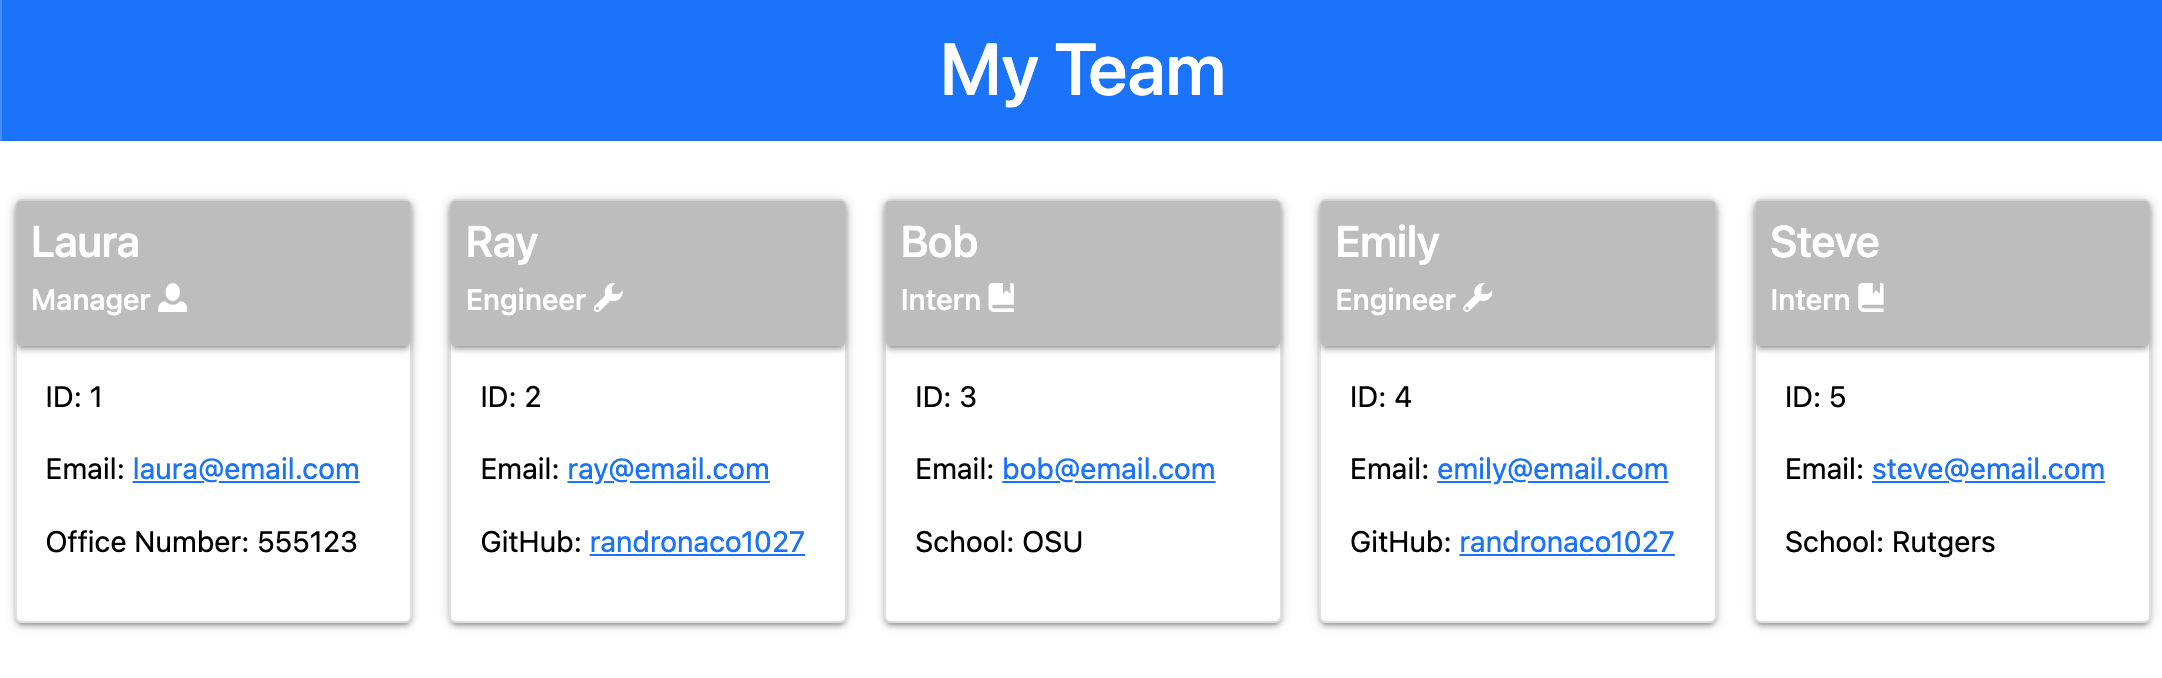
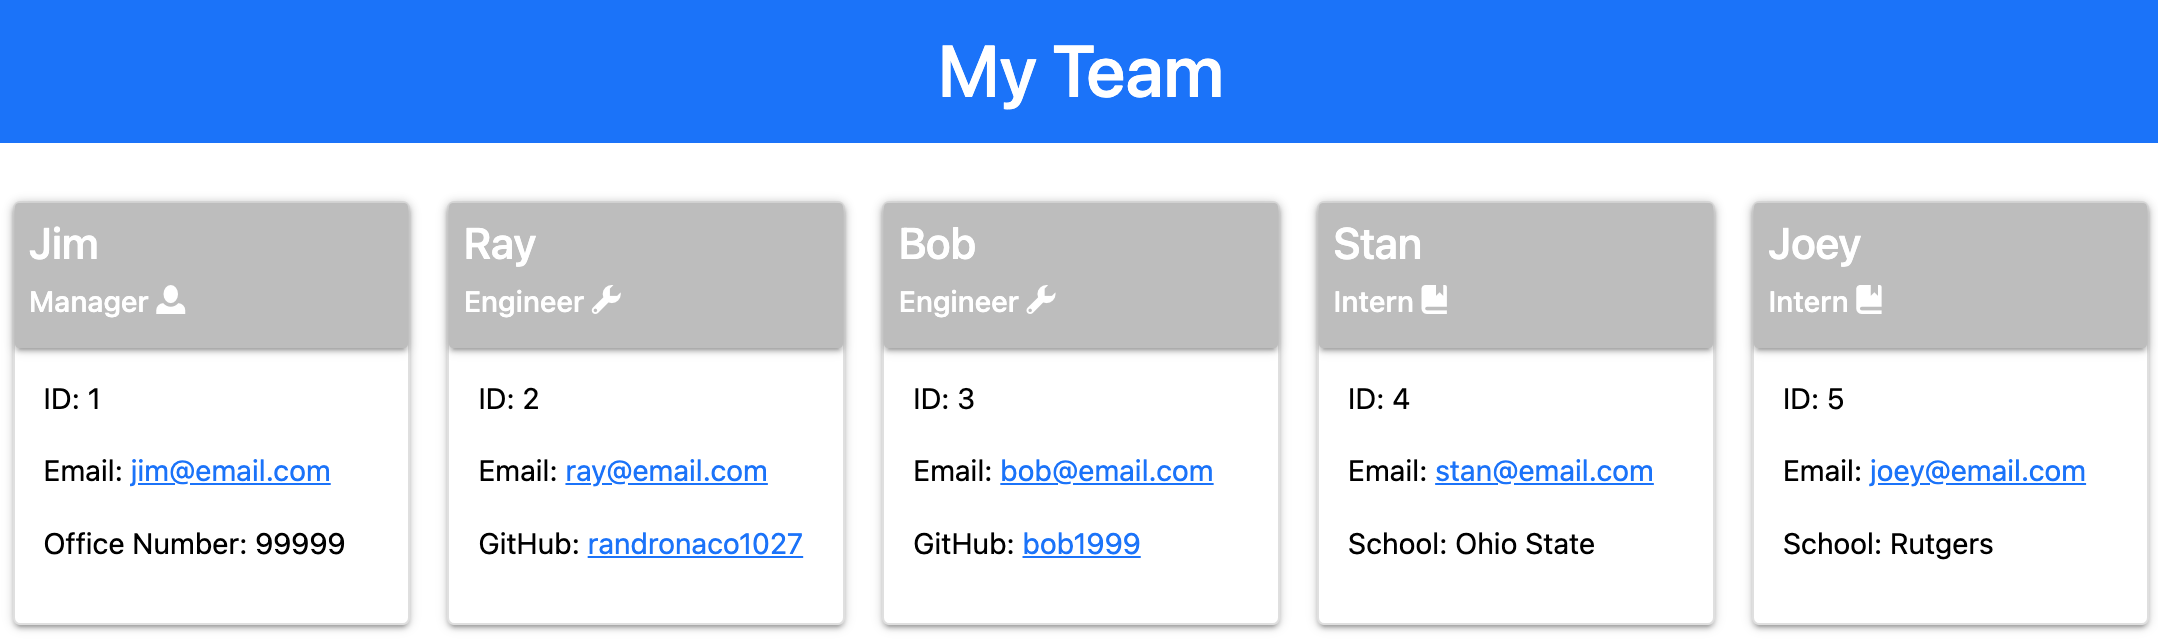
updated preview pic

diff --git a/dist/index.html b/dist/index.html
@@ -19,25 +19,25 @@
             
     <div class="card m-2">
         <div class="m-0 card-panel grey lighten-1 p-2">
-            <h4>Ray</h4>
+            <h4>Jim</h4>
             <h6>Manager  <span class="oi oi-person"></h6>
         </div>
         <div class="card-body">
             <p>ID: 1</p>
-            <p>Email: <span><a href="mailto:ray@email.com">ray@email.com</a></span></p>
+            <p>Email: <span><a href="mailto:jim@email.com">jim@email.com</a></span></p>
             <p>Office Number: 99999</p>
         </div>
     </div>
     ,
     <div class="card m-2">
         <div class="m-0 card-panel grey lighten-1 p-2">
-            <h4>Jim</h4>
+            <h4>Ray</h4>
             <h6>Engineer <span class="oi oi-wrench"></h6>
         </div>
         <div class="card-body">
             <p>ID: 2</p>
-            <p>Email: <span><a href="mailto:jim@email.com">jim@email.com</a></span></p>
-            <p>GitHub: <span><a href="https://github.com/jim1027">jim1027</a></span></p>
+            <p>Email: <span><a href="mailto:ray@email.com">ray@email.com</a></span></p>
+            <p>GitHub: <span><a href="https://github.com/randronaco1027">randronaco1027</a></span></p>
         </div>
     </div>
     ,
